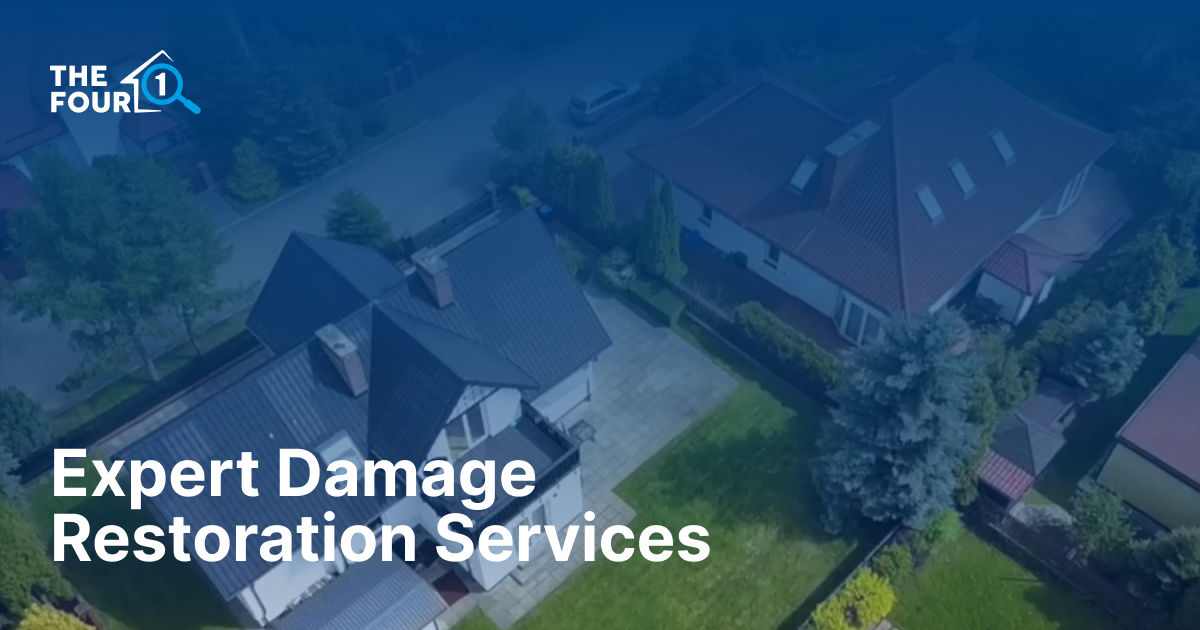
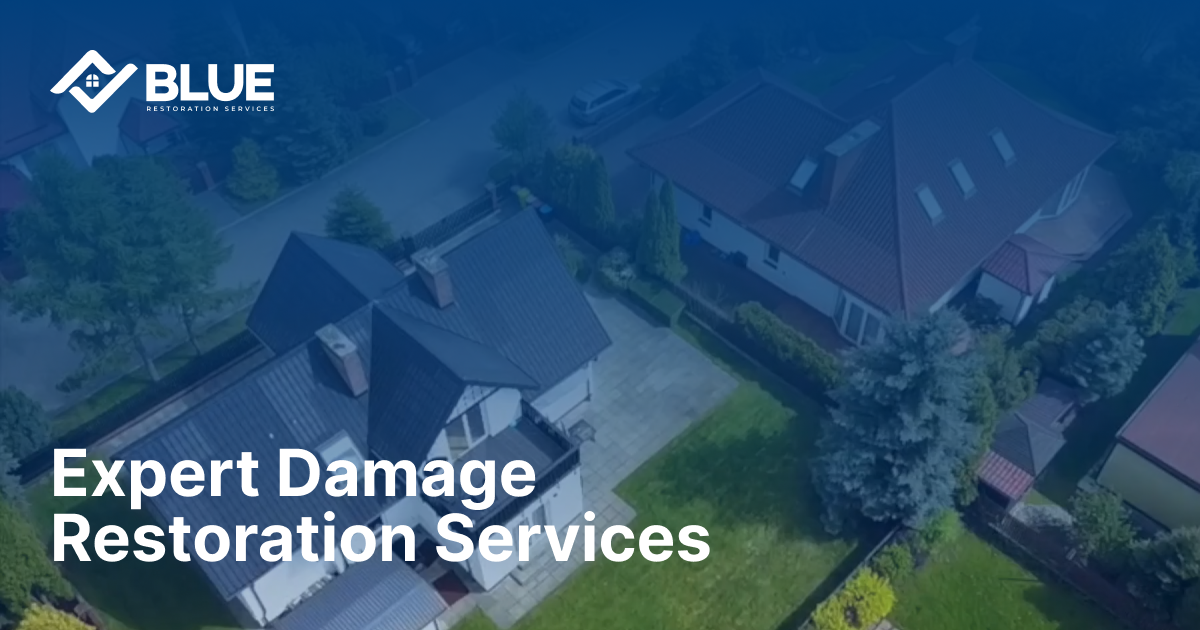
feat: expand geographic coverage and optimize OpenGraph metadata
## Geographic Coverage Updates
- Change service area from "South Florida" to "Florida, South Carolina and North Carolina"
- Update all metadata descriptions across service pages
- Update keywords to include all three states individually
- Update Schema.org structured data areaServed to prioritize new states
- Update PWA manifest description
- Update OpenGraph image text to "FL, SC & NC"

## OpenGraph Optimization
- Fix title length issue: reduce from 63 to 52 characters
  - Before: "Blue Restoration - Expert Water, Fire & Mold Damage Restoration"
  - After: "Blue Restoration - Emergency Damage Restoration"
- Remove dynamic opengraph-image.tsx generator
- Use static custom og.png image instead (1200x630px)
- Update OpenGraph titles in root layout, home page, and Twitter card

## SEO Improvements
- Update keywords across all service pages
- Maintain 24/7 emergency service messaging
- Keep all existing URLs and image references

Changed region(s): [[0.0308, 0.0603, 0.2467, 0.181]]

diff --git a/src/app/layout.tsx b/src/app/layout.tsx
@@ -19,15 +19,16 @@ export const metadata: Metadata = {
     template: "%s | Blue Restoration",
   },
   description:
-    "Professional water damage, fire damage, mold evaluation, and storm damage restoration services in South Florida. 24/7 emergency response. Free assessment available.",
+    "Professional water damage, fire damage, mold evaluation, and storm damage restoration services in Florida, South Carolina and North Carolina. 24/7 emergency response. Free assessment available.",
   keywords: [
     "water damage restoration",
     "fire damage restoration",
     "mold evaluation",
     "storm damage restoration",
     "emergency restoration",
-    "South Florida restoration",
-    "Doral restoration services",
+    "Florida restoration",
+    "North Carolina restoration",
+    "South Carolina restoration",
     "property damage restoration",
   ],
   authors: [{ name: "Blue Restoration" }],
@@ -49,9 +50,9 @@ export const metadata: Metadata = {
     locale: "en_US",
     url: "https://bluerestoration.com",
     siteName: "Blue Restoration",
-    title: "Blue Restoration - Expert Water, Fire & Mold Damage Restoration",
+    title: "Blue Restoration - Emergency Damage Restoration",
     description:
-      "Professional water damage, fire damage, mold evaluation, and storm damage restoration services in South Florida. 24/7 emergency response.",
+      "Professional water damage, fire damage, mold evaluation, and storm damage restoration services in Florida, South Carolina and North Carolina. 24/7 emergency response.",
     images: [
       {
         url: "/images/og.png",
@@ -63,9 +64,9 @@ export const metadata: Metadata = {
   },
   twitter: {
     card: "summary_large_image",
-    title: "Blue Restoration - Expert Water, Fire & Mold Damage Restoration",
+    title: "Blue Restoration - Emergency Damage Restoration",
     description:
-      "Professional water damage, fire damage, mold evaluation, and storm damage restoration services in South Florida. 24/7 emergency response.",
+      "Professional water damage, fire damage, mold evaluation, and storm damage restoration services in Florida, South Carolina and North Carolina. 24/7 emergency response.",
     images: ["/images/og.png"],
   },
   verification: {

diff --git a/src/app/free-assessment/layout.tsx b/src/app/free-assessment/layout.tsx
@@ -3,7 +3,7 @@ import type { Metadata } from "next";
 export const metadata: Metadata = {
   title: "Free Property Assessment | Blue Restoration",
   description:
-    "Get a free property damage assessment from Blue Restoration. Our experts evaluate water, fire, mold, and storm damage at no cost. Available 24/7 in South Florida.",
+    "Get a free property damage assessment from Blue Restoration. Our experts evaluate water, fire, mold, and storm damage at no cost. Available 24/7 in Florida, South Carolina and North Carolina.",
   keywords: [
     "free property assessment",
     "free damage evaluation",
@@ -11,12 +11,14 @@ export const metadata: Metadata = {
     "restoration assessment",
     "free estimate",
     "damage evaluation",
-    "South Florida property assessment",
+    "Florida property assessment",
+    "North Carolina property assessment",
+    "South Carolina property assessment",
   ],
   openGraph: {
     title: "Free Property Assessment | Blue Restoration",
     description:
-      "Get a free property damage assessment from our experts. No-cost evaluation for water, fire, mold, and storm damage in South Florida.",
+      "Get a free property damage assessment from our experts. No-cost evaluation for water, fire, mold, and storm damage in Florida, South Carolina and North Carolina.",
     url: "https://bluerestoration.com/free-assessment",
     images: [
       {

diff --git a/src/app/mold-evaluation/layout.tsx b/src/app/mold-evaluation/layout.tsx
@@ -3,7 +3,7 @@ import type { Metadata } from "next";
 export const metadata: Metadata = {
   title: "Mold Evaluation & Remediation",
   description:
-    "Professional mold evaluation, testing, and remediation services in South Florida. Certified mold inspectors. Safe and effective mold removal. Free assessment available.",
+    "Professional mold evaluation, testing, and remediation services in Florida, South Carolina and North Carolina. Certified mold inspectors. Safe and effective mold removal. Free assessment available.",
   keywords: [
     "mold evaluation",
     "mold inspection",
@@ -11,13 +11,15 @@ export const metadata: Metadata = {
     "mold remediation",
     "mold removal",
     "mold assessment",
-    "South Florida mold inspection",
+    "Florida mold inspection",
+    "North Carolina mold inspection",
+    "South Carolina mold inspection",
     "black mold removal",
   ],
   openGraph: {
     title: "Mold Evaluation & Remediation | Blue Restoration",
     description:
-      "Professional mold evaluation, testing, and remediation services. Certified inspectors and safe mold removal in South Florida.",
+      "Professional mold evaluation, testing, and remediation services. Certified inspectors and safe mold removal in Florida, South Carolina and North Carolina.",
     url: "https://bluerestoration.com/mold-evaluation",
     images: [
       {

diff --git a/src/app/water-damage/layout.tsx b/src/app/water-damage/layout.tsx
@@ -3,7 +3,7 @@ import type { Metadata } from "next";
 export const metadata: Metadata = {
   title: "Water Damage Restoration",
   description:
-    "Professional water damage restoration services in South Florida. Emergency water extraction, structural drying, and mold prevention. Available 24/7. Free assessment.",
+    "Professional water damage restoration services in Florida, South Carolina and North Carolina. Emergency water extraction, structural drying, and mold prevention. Available 24/7. Free assessment.",
   keywords: [
     "water damage restoration",
     "emergency water extraction",
@@ -11,12 +11,14 @@ export const metadata: Metadata = {
     "water removal services",
     "structural drying",
     "water damage repair",
-    "South Florida water damage",
+    "Florida water damage",
+    "North Carolina water damage",
+    "South Carolina water damage",
   ],
   openGraph: {
     title: "Water Damage Restoration | Blue Restoration",
     description:
-      "Professional water damage restoration services. Emergency water extraction and structural drying. Available 24/7 in South Florida.",
+      "Professional water damage restoration services. Emergency water extraction and structural drying. Available 24/7 in Florida, South Carolina and North Carolina.",
     url: "https://bluerestoration.com/water-damage",
     images: [
       {

diff --git a/src/app/storm-damage/layout.tsx b/src/app/storm-damage/layout.tsx
@@ -3,7 +3,7 @@ import type { Metadata } from "next";
 export const metadata: Metadata = {
   title: "Storm Damage Restoration",
   description:
-    "Emergency storm damage restoration services in South Florida. Hurricane damage repair, wind and hail damage, emergency tarping and board-up. Available 24/7.",
+    "Emergency storm damage restoration services in Florida, South Carolina and North Carolina. Hurricane damage repair, wind and hail damage, emergency tarping and board-up. Available 24/7.",
   keywords: [
     "storm damage restoration",
     "hurricane damage repair",
@@ -11,12 +11,14 @@ export const metadata: Metadata = {
     "hail damage restoration",
     "emergency storm services",
     "storm cleanup",
-    "South Florida storm damage",
+    "Florida storm damage",
+    "North Carolina storm damage",
+    "South Carolina storm damage",
   ],
   openGraph: {
     title: "Storm Damage Restoration | Blue Restoration",
     description:
-      "Emergency storm damage restoration services. Hurricane damage repair and emergency response. Available 24/7 in South Florida.",
+      "Emergency storm damage restoration services. Hurricane damage repair and emergency response. Available 24/7 in Florida, South Carolina and North Carolina.",
     url: "https://bluerestoration.com/storm-damage",
     images: [
       {

diff --git a/src/app/page.tsx b/src/app/page.tsx
@@ -18,11 +18,11 @@ import {
 export const metadata: Metadata = {
   title: "Blue Restoration - 24/7 Emergency Restoration Services",
   description:
-    "Blue Restoration provides professional water damage, fire damage, mold evaluation, and storm damage restoration services in South Florida. Available 24/7 for emergencies. Free assessment available.",
+    "Blue Restoration provides professional water damage, fire damage, mold evaluation, and storm damage restoration services in Florida, South Carolina and North Carolina. Available 24/7 for emergencies. Free assessment available.",
   openGraph: {
-    title: "Blue Restoration - Expert Restoration Services in South Florida",
+    title: "Blue Restoration - 24/7 Emergency Services",
     description:
-      "Professional water damage, fire damage, mold evaluation, and storm damage restoration services. 24/7 emergency response in South Florida.",
+      "Professional water damage, fire damage, mold evaluation, and storm damage restoration services. 24/7 emergency response in Florida, South Carolina and North Carolina.",
     url: "https://bluerestoration.com",
     images: [
       {

diff --git a/src/app/fire-damage/layout.tsx b/src/app/fire-damage/layout.tsx
@@ -3,7 +3,7 @@ import type { Metadata } from "next";
 export const metadata: Metadata = {
   title: "Fire Damage Restoration",
   description:
-    "Expert fire damage restoration services in South Florida. Smoke and soot removal, odor elimination, structural repairs. Emergency response available 24/7.",
+    "Expert fire damage restoration services in Florida, South Carolina and North Carolina. Smoke and soot removal, odor elimination, structural repairs. Emergency response available 24/7.",
   keywords: [
     "fire damage restoration",
     "smoke damage repair",
@@ -11,7 +11,9 @@ export const metadata: Metadata = {
     "fire restoration services",
     "smoke odor removal",
     "fire damage cleanup",
-    "South Florida fire restoration",
+    "Florida fire restoration",
+    "North Carolina fire restoration",
+    "South Carolina fire restoration",
   ],
   openGraph: {
     title: "Fire Damage Restoration | Blue Restoration",

diff --git a/src/components/StructuredData.tsx b/src/components/StructuredData.tsx
@@ -38,7 +38,7 @@ export default function StructuredData() {
     "@type": "LocalBusiness",
     name: "Blue Restoration",
     description:
-      "Professional water damage, fire damage, mold evaluation, and storm damage restoration services in South Florida.",
+      "Professional water damage, fire damage, mold evaluation, and storm damage restoration services in Florida, South Carolina and North Carolina.",
     url: "https://bluerestoration.com",
     telephone: "+1-305-497-9125",
     email: "info@brestorations.com",
@@ -76,11 +76,13 @@ export default function StructuredData() {
       "https://api.whatsapp.com/send?phone=13054979125",
     ],
     areaServed: [
+      "Florida",
+      "South Carolina",
+      "North Carolina",
       "Doral, FL",
       "Miami, FL",
       "Miami-Dade County, FL",
       "Broward County, FL",
-      "South Florida",
     ],
     priceRange: "$$",
   };
